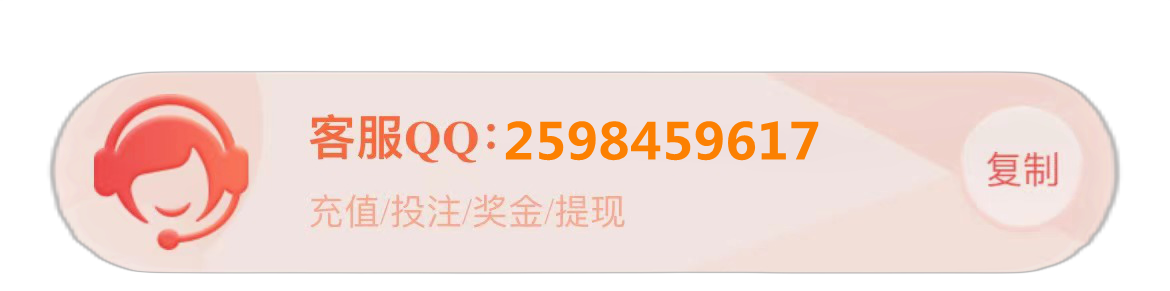
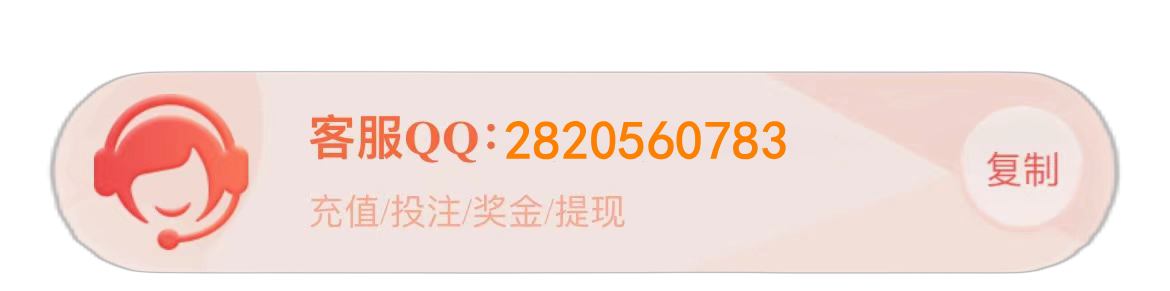
asd

Changed region(s): [[0.4308, 0.4021, 0.7077, 0.5567]]

diff --git a/lib/pages/Mine.dart b/lib/pages/Mine.dart
@@ -464,7 +464,7 @@ class _Mine extends State<Mine>  with SingleTickerProviderStateMixin ,AutomaticK
                           child: Container(
                             child: GestureDetector(
                               onTap: (){
-                                Future res = Clipboard.setData(ClipboardData(text: '2598459617'));
+                                Future res = Clipboard.setData(ClipboardData(text: '2820560783'));
                                 res.whenComplete(() =>Toast.toast(context,msg: "复制成功"));
                               },
                               child: Container(

diff --git a/lib/pages/recharge.dart b/lib/pages/recharge.dart
@@ -269,7 +269,7 @@ class Login_ extends State<recharge> {
 
                 Container(
                   margin: EdgeInsets.only(left: 10),
-                  child: Text("2、为充值成功后，若金额未到账，请等待1-2分钟，或联系客服QQ2598459617",style: TextStyle(fontSize: 12),),
+                  child: Text("2、为充值成功后，若金额未到账，请等待1-2分钟，或联系客服QQ2820560783",style: TextStyle(fontSize: 12),),
                 ),
                 Container(
                   margin: EdgeInsets.only(left: 10),

diff --git a/lib/wiget/basketball/basketbifen.dart b/lib/wiget/basketball/basketbifen.dart
@@ -396,7 +396,7 @@ getScore(){
     );
   }
   getScoreList(state) {
-    String status = widget.p_status[0];
+    String status = widget.p_status[2];
     if(status == "0"){
       return [Container(
         decoration: BoxDecoration(
@@ -483,7 +483,7 @@ getScore(){
     }).toList();
   }
   getScoreList_ks(state) {
-    String status = widget.p_status[0];
+    String status = widget.p_status[2];
     if(status == "0"){
       return [Container(
         decoration: BoxDecoration(

diff --git a/lib/pages/register.dart b/lib/pages/register.dart
@@ -371,7 +371,7 @@ class Login_ extends State<register> {
                   onTap: (){
                     JumpAnimation().jump(agreement(), context);
                   },
-                  child: Text("《玩客助手软件用户注册协议》",style: TextStyle(color: Colors.pinkAccent),),
+                  child: Text("《好胜助手软件用户注册协议》",style: TextStyle(color: Colors.pinkAccent),),
                 )
               ],
             )

diff --git a/lib/pages/Login.dart b/lib/pages/Login.dart
@@ -236,7 +236,7 @@ class Login_ extends State<Login> {
               child: Row(
                 mainAxisAlignment: MainAxisAlignment.center,
                 children: <Widget>[
-                  Text("还没有玩客助手账号?"),
+                  Text("还没有好胜助手账号?"),
                   GestureDetector(
                     onTap: (){
                       JumpAnimation().jump(register(), context);

diff --git a/lib/pages/IndexPage.dart b/lib/pages/IndexPage.dart
@@ -215,7 +215,7 @@ class _IndexPage extends State<IndexPage> with AutomaticKeepAliveClientMixin {
               child: Center(
                 child: SafeArea(
                   child: Text(
-                    "玩客助手",
+                    "好胜助手",
                     style: TextStyle(
                         color: Colors.white, fontSize: ScreenUtil().setSp(20)),
                   ),

diff --git a/lib/pages/kefu.dart b/lib/pages/kefu.dart
@@ -121,7 +121,7 @@ getVersion() async {
                             crossAxisAlignment:WrapCrossAlignment.center,
                             children: <Widget>[
                               Text("版权所有:"),
-                              Text("玩客助手"),
+                              Text("好胜助手"),
 
                             ],
                           )

diff --git a/lib/net/Address.dart b/lib/net/Address.dart
@@ -1,5 +1,5 @@
 class Address{
-  static String BASE_URL = "http://8.134.50.248/api/";
+  static String BASE_URL = "http://39.103.185.223/api/";
   static String TEST_API ="/v2/movie/in_theaters";
   static String DOWN_LOAD_URL ="http://39.99.155.47/yibo1";
 }
